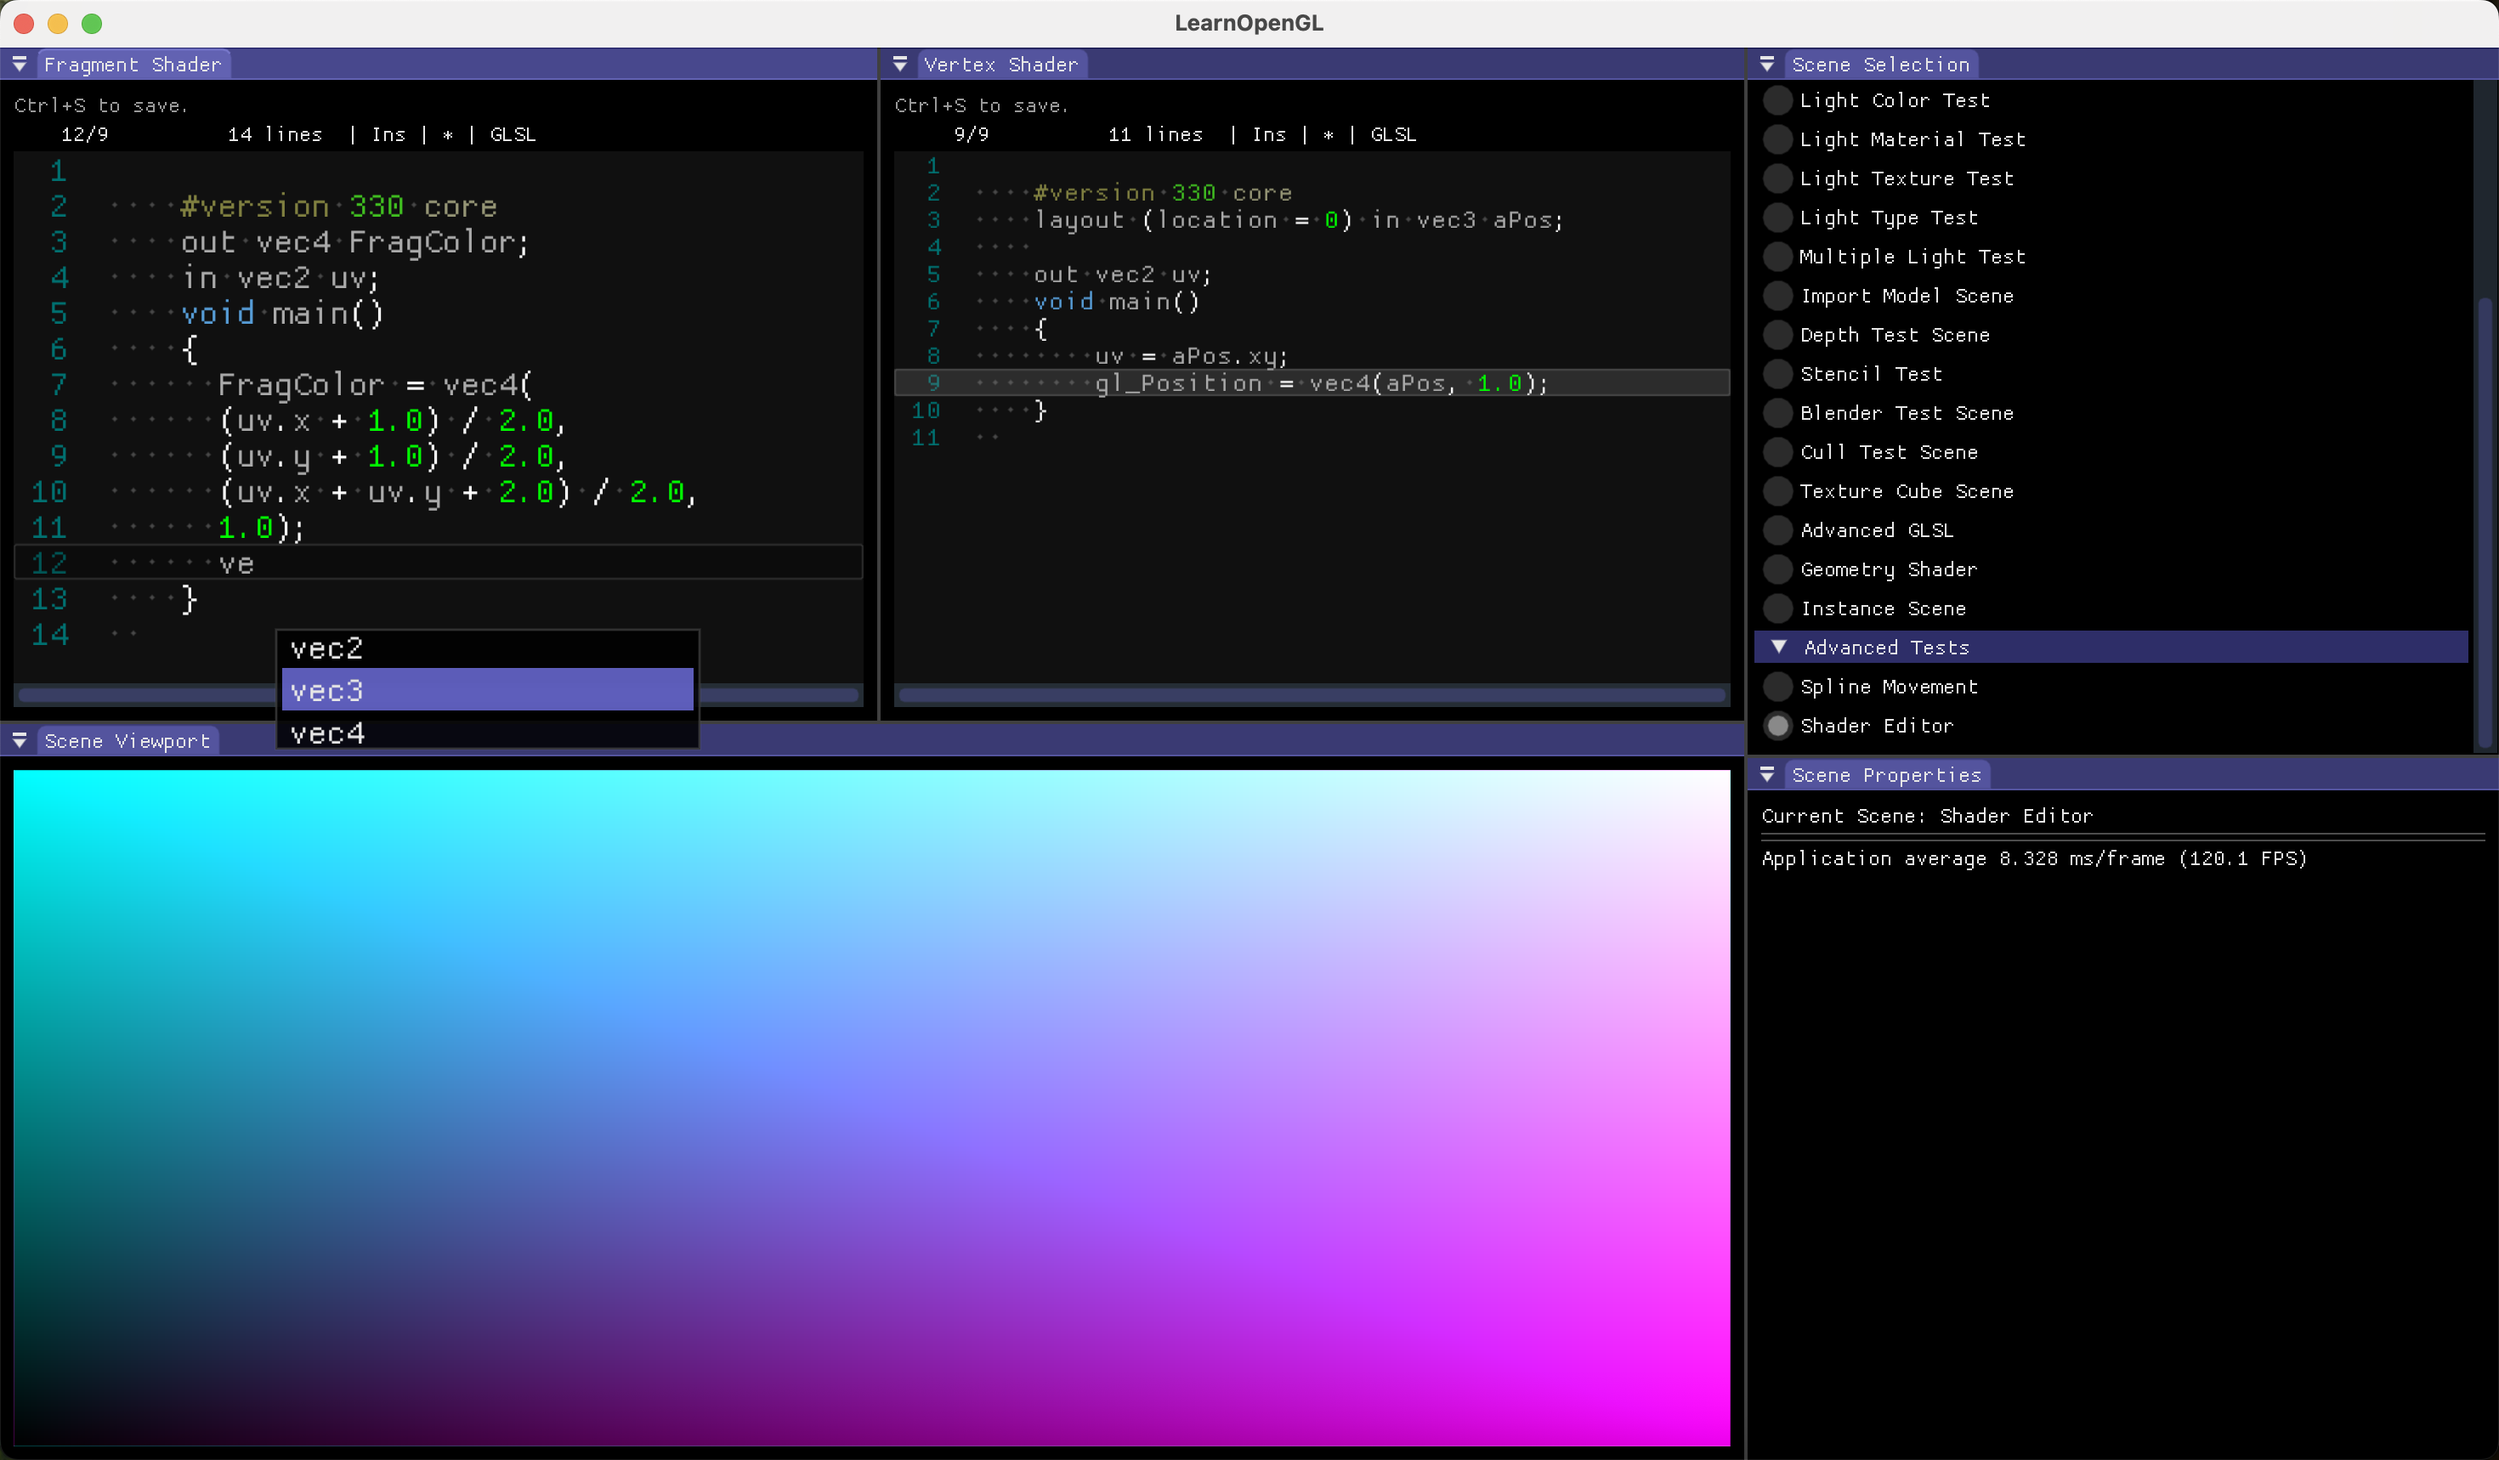
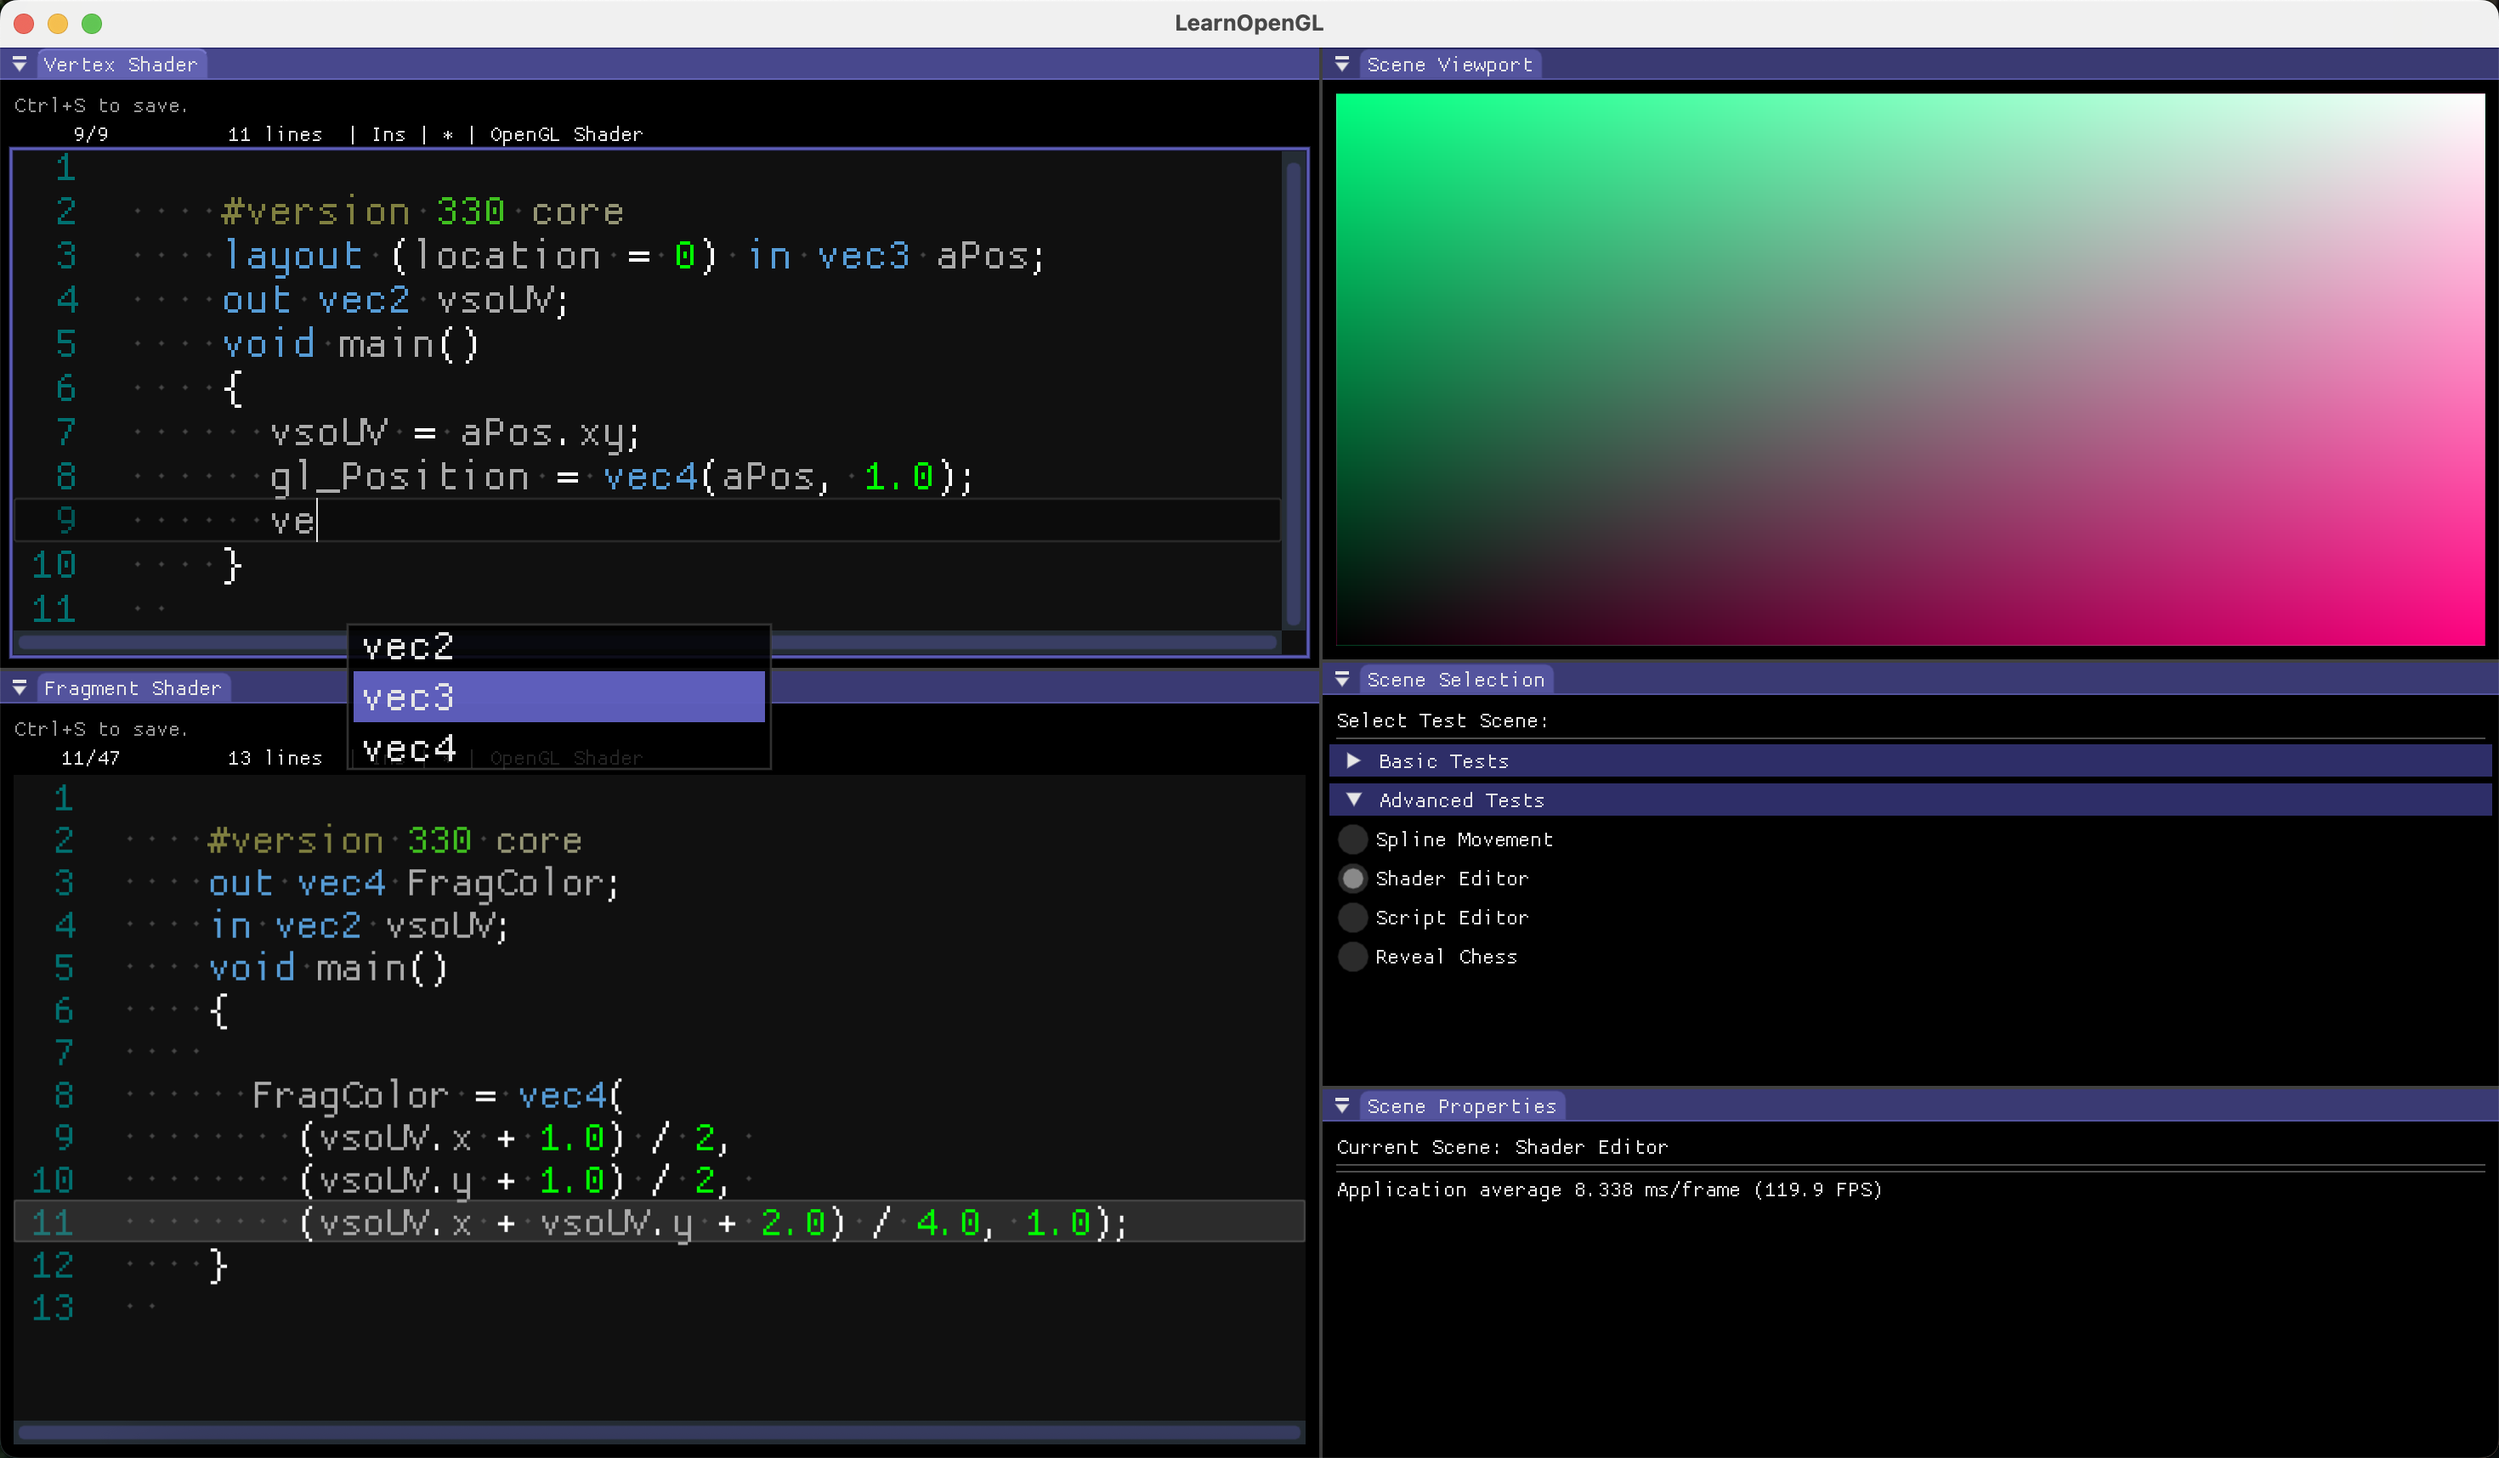
specific shader definition

diff --git a/tests/component/opengl_shader_definition.cpp b/tests/component/opengl_shader_definition.cpp
@@ -1,0 +1,330 @@
+#include "opengl_shader_definition.h"
+
+const TextEditor::LanguageDefinition &opengl_shader_definition() {
+  static bool inited = false;
+  static TextEditor::LanguageDefinition langDef;
+  if (!inited) {
+    static const char *const keywords[] = {
+        "attribute",
+        "break",
+        "buffer",
+        "case",
+        "centroid",
+        "coherent",
+        "const",
+        "continue",
+        "default",
+        "discard",
+        "do",
+        "double",
+        "dvec2",
+        "dvec3",
+        "dvec4",
+        "else",
+        "enum",
+        "extern",
+        "false",
+        "flat",
+        "float",
+        "for",
+        "highp",
+        "if",
+        "in",
+        "inout",
+        "int",
+        "invariant",
+        "ivec2",
+        "ivec3",
+        "ivec4",
+        "layout",
+        "lowp",
+        "mat2",
+        "mat2x2",
+        "mat2x3",
+        "mat2x4",
+        "mat3",
+        "mat3x2",
+        "mat3x3",
+        "mat3x4",
+        "mat4",
+        "mat4x2",
+        "mat4x3",
+        "mat4x4",
+        "mediump",
+        "noperspective",
+        "out",
+        "patch",
+        "precision",
+        "readonly",
+        "restrict",
+        "return",
+        "sample",
+        "shared",
+        "smooth",
+        "struct",
+        "switch",
+        "true",
+        "uint",
+        "uniform",
+        "varying",
+        "vec2",
+        "vec3",
+        "vec4",
+        "void",
+        "volatile",
+        "while",
+        "writeonly",
+        "bvec2",
+        "bvec3",
+        "bvec4",
+        "uvec2",
+        "uvec3",
+        "uvec4",
+        "sampler1D",
+        "sampler2D",
+        "sampler3D",
+        "samplerCube",
+        "sampler1DShadow",
+        "sampler2DShadow",
+        "samplerCubeShadow",
+        "sampler1DArray",
+        "sampler2DArray",
+        "sampler1DArrayShadow",
+        "sampler2DArrayShadow",
+        "sampler2DRect",
+        "sampler2DRectShadow",
+        "isampler1D",
+        "isampler2D",
+        "isampler3D",
+        "isamplerCube",
+        "isampler1DArray",
+        "isampler2DArray",
+        "isampler2DRect",
+        "usampler1D",
+        "usampler2D",
+        "usampler3D",
+        "usamplerCube",
+        "usampler1DArray",
+        "usampler2DArray",
+        "usampler2DRect",
+        "samplerBuffer",
+        "isamplerBuffer",
+        "usamplerBuffer",
+        "sampler2DMS",
+        "isampler2DMS",
+        "usampler2DMS",
+        "sampler2DMSArray",
+        "isampler2DMSArray",
+        "usampler2DMSArray",
+        "image2D",
+        "image3D",
+        "imageCube",
+        "image2DArray",
+        "imageCubeArray",
+        "imageBuffer",
+        "iimage2D",
+        "iimage3D",
+        "iimageCube",
+        "iimage2DArray",
+        "iimageCubeArray",
+        "iimageBuffer",
+        "uimage2D",
+        "uimage3D",
+        "uimageCube",
+        "uimage2DArray",
+        "uimageCubeArray",
+        "uimageBuffer",
+        "atomic_uint",
+        "subroutine",
+        "common",
+        "partition",
+        "active",
+    };
+    for (auto &k : keywords)
+      langDef.mKeywords.insert(k);
+
+    static const char *const identifiers[] = {
+        "radians",
+        "degrees",
+        "sin",
+        "cos",
+        "tan",
+        "asin",
+        "acos",
+        "atan",
+        "sinh",
+        "cosh",
+        "tanh",
+        "asinh",
+        "acosh",
+        "atanh",
+        "pow",
+        "exp",
+        "log",
+        "exp2",
+        "log2",
+        "sqrt",
+        "inverseSqrt",
+        "abs",
+        "sign",
+        "floor",
+        "trunc",
+        "round",
+        "roundEven",
+        "ceil",
+        "fract",
+        "mod",
+        "modf",
+        "min",
+        "max",
+        "clamp",
+        "mix",
+        "step",
+        "smoothstep",
+        "length",
+        "distance",
+        "dot",
+        "cross",
+        "normalize",
+        "faceforward",
+        "reflect",
+        "refract",
+        "matrixCompMult",
+        "outerProduct",
+        "transpose",
+        "determinant",
+        "inverse",
+        "lessThan",
+        "lessThanEqual",
+        "greaterThan",
+        "greaterThanEqual",
+        "equal",
+        "notEqual",
+        "any",
+        "all",
+        "not",
+        "bitfieldExtract",
+        "bitfieldInsert",
+        "bitfieldReverse",
+        "bitCount",
+        "findLSB",
+        "findMSB",
+        "uaddCarry",
+        "usubBorrow",
+        "umulExtended",
+        "imulExtended",
+        "texture",
+        "textureSize",
+        "textureQueryLod",
+        "textureQueryLevels",
+        "textureLod",
+        "textureOffset",
+        "textureLodOffset",
+        "texelFetch",
+        "texelFetchOffset",
+        "textureProj",
+        "textureProjOffset",
+        "textureProjLod",
+        "textureProjLodOffset",
+        "textureGrad",
+        "textureGradOffset",
+        "textureProjGrad",
+        "textureProjGradOffset",
+        "textureGather",
+        "textureGatherOffset",
+        "textureGatherOffsets",
+        "texture2D",
+        "textureCube",
+        "texture2DProj",
+        "texture2DLod",
+        "textureCubeLod",
+        "texture2DProjLod",
+        "texture3D",
+        "texture2DArray",
+        "texture2DArrayLod",
+        "dFdx",
+        "dFdy",
+        "dFdxFine",
+        "dFdyFine",
+        "dFdxCoarse",
+        "dFdyCoarse",
+        "fwidth",
+        "fwidthFine",
+        "fwidthCoarse",
+        "interpolateAtCentroid",
+        "interpolateAtSample",
+        "interpolateAtOffset",
+        "atomicAdd",
+        "atomicMin",
+        "atomicMax",
+        "atomicAnd",
+        "atomicOr",
+        "atomicXor",
+        "atomicExchange",
+        "atomicCompSwap",
+        "imageLoad",
+        "imageStore",
+        "imageAtomicAdd",
+        "imageAtomicMin",
+        "imageAtomicMax",
+        "imageAtomicAnd",
+        "imageAtomicOr",
+        "imageAtomicXor",
+        "imageAtomicExchange",
+        "imageAtomicCompSwap",
+        "EmitVertex",
+        "EndPrimitive",
+        "barrier",
+    };
+    for (auto &i : identifiers) {
+      TextEditor::Identifier id;
+      id.mDeclaration = "Built-in function";
+      langDef.mIdentifiers.insert(std::make_pair(std::string(i), id));
+    }
+
+    langDef.mTokenRegexStrings.push_back(
+        std::make_pair<std::string, TextEditor::PaletteIndex>(
+            "[ \\t]*#[ \\t]*[a-zA-Z_]+",
+            TextEditor::PaletteIndex::Preprocessor));
+    langDef.mTokenRegexStrings.push_back(
+        std::make_pair<std::string, TextEditor::PaletteIndex>(
+            "L?\\\"(\\\\.|[^\\\"])*\\\"", TextEditor::PaletteIndex::String));
+    langDef.mTokenRegexStrings.push_back(
+        std::make_pair<std::string, TextEditor::PaletteIndex>(
+            "\\'\\\\?[^\\']\\'", TextEditor::PaletteIndex::CharLiteral));
+    langDef.mTokenRegexStrings.push_back(
+        std::make_pair<std::string, TextEditor::PaletteIndex>(
+            "[+-]?([0-9]+([.][0-9]*)?|[.][0-9]+)([eE][+-]?[0-9]+)?[fF]?",
+            TextEditor::PaletteIndex::Number));
+    langDef.mTokenRegexStrings.push_back(
+        std::make_pair<std::string, TextEditor::PaletteIndex>(
+            "[+-]?[0-9]+[Uu]?[lL]?[lL]?", TextEditor::PaletteIndex::Number));
+    langDef.mTokenRegexStrings.push_back(
+        std::make_pair<std::string, TextEditor::PaletteIndex>(
+            "0[0-7]+[Uu]?[lL]?[lL]?", TextEditor::PaletteIndex::Number));
+    langDef.mTokenRegexStrings.push_back(
+        std::make_pair<std::string, TextEditor::PaletteIndex>(
+            "0[xX][0-9a-fA-F]+[uU]?[lL]?[lL]?",
+            TextEditor::PaletteIndex::Number));
+    langDef.mTokenRegexStrings.push_back(
+        std::make_pair<std::string, TextEditor::PaletteIndex>(
+            "[a-zA-Z_][a-zA-Z0-9_]*", TextEditor::PaletteIndex::Identifier));
+    langDef.mTokenRegexStrings.push_back(
+        std::make_pair<std::string, TextEditor::PaletteIndex>(
+            "[\\[\\]\\{\\}\\!\\%\\^\\&\\*\\(\\)\\-\\+\\=\\~\\|\\<\\>\\?\\/"
+            "\\;\\,\\.]",
+            TextEditor::PaletteIndex::Punctuation));
+
+    langDef.mCommentStart = "/*";
+    langDef.mCommentEnd = "*/";
+    langDef.mSingleLineComment = "//";
+
+    langDef.mCaseSensitive = true;
+    langDef.mAutoIndentation = true;
+
+    langDef.mName = "OpenGL Shader";
+
+    inited = true;
+  }
+  return langDef;
+}

diff --git a/tests/component/shader_editor.cpp b/tests/component/shader_editor.cpp
@@ -2,6 +2,7 @@
 #include "TextEditor.h"
 #include "imgui.h"
 #include "imgui_internal.h"
+#include "opengl_shader_definition.h"
 #include <cstddef>
 
 namespace {
@@ -245,7 +246,7 @@ basic_code_editor::basic_code_editor(const std::string &_name,
     : m_name(_name) {
   switch (_type) {
   case code_editor_type::k_shader:
-    m_editor.SetLanguageDefinition(TextEditor::LanguageDefinition::GLSL());
+    m_editor.SetLanguageDefinition(opengl_shader_definition());
     break;
   // case code_editor_type::k_script:
   //   m_editor.SetLanguageDefinition(TextEditor::LanguageDefinition::CPlusPlus());

diff --git a/tests/component/opengl_shader_definition.h b/tests/component/opengl_shader_definition.h
@@ -1,0 +1,5 @@
+#pragma once
+
+#include "TextEditor.h"
+
+const TextEditor::LanguageDefinition &opengl_shader_definition();
